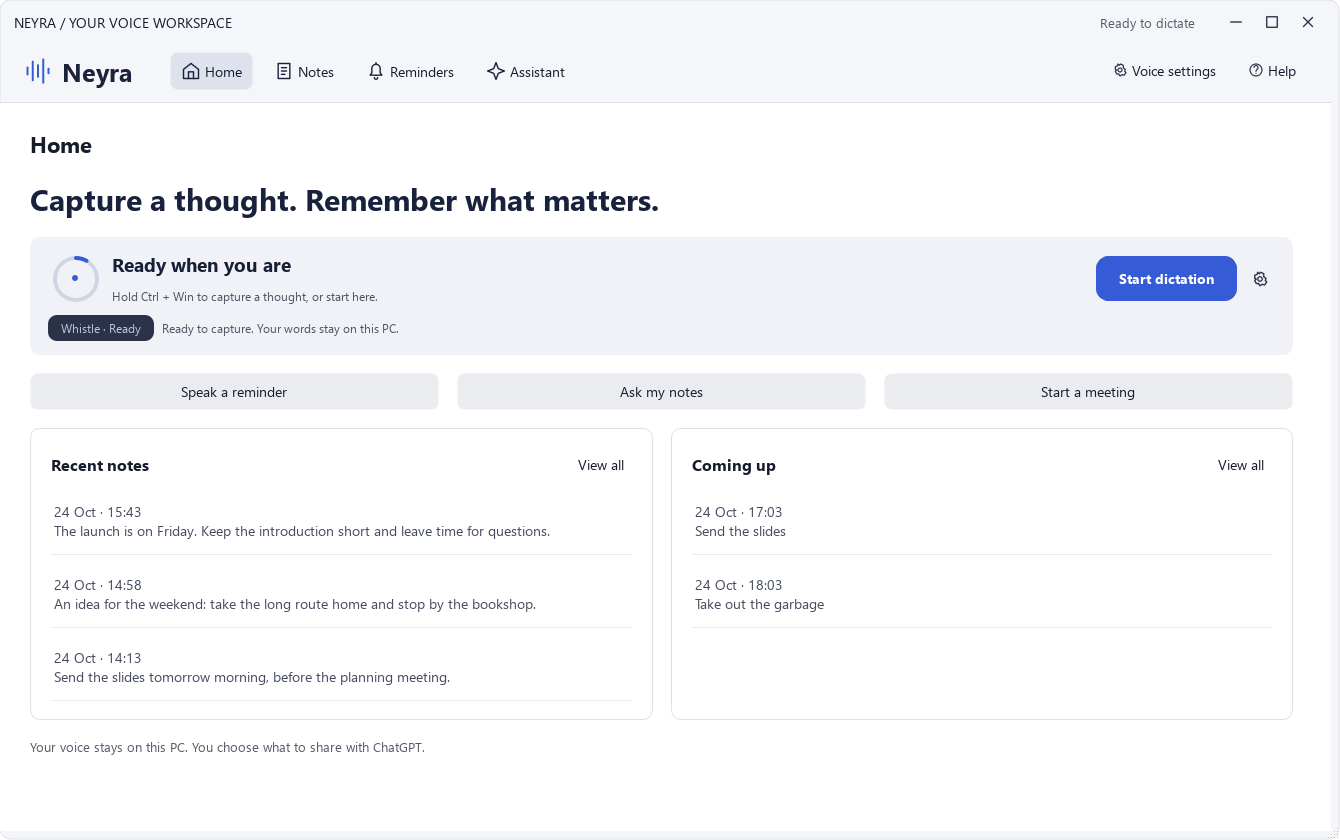
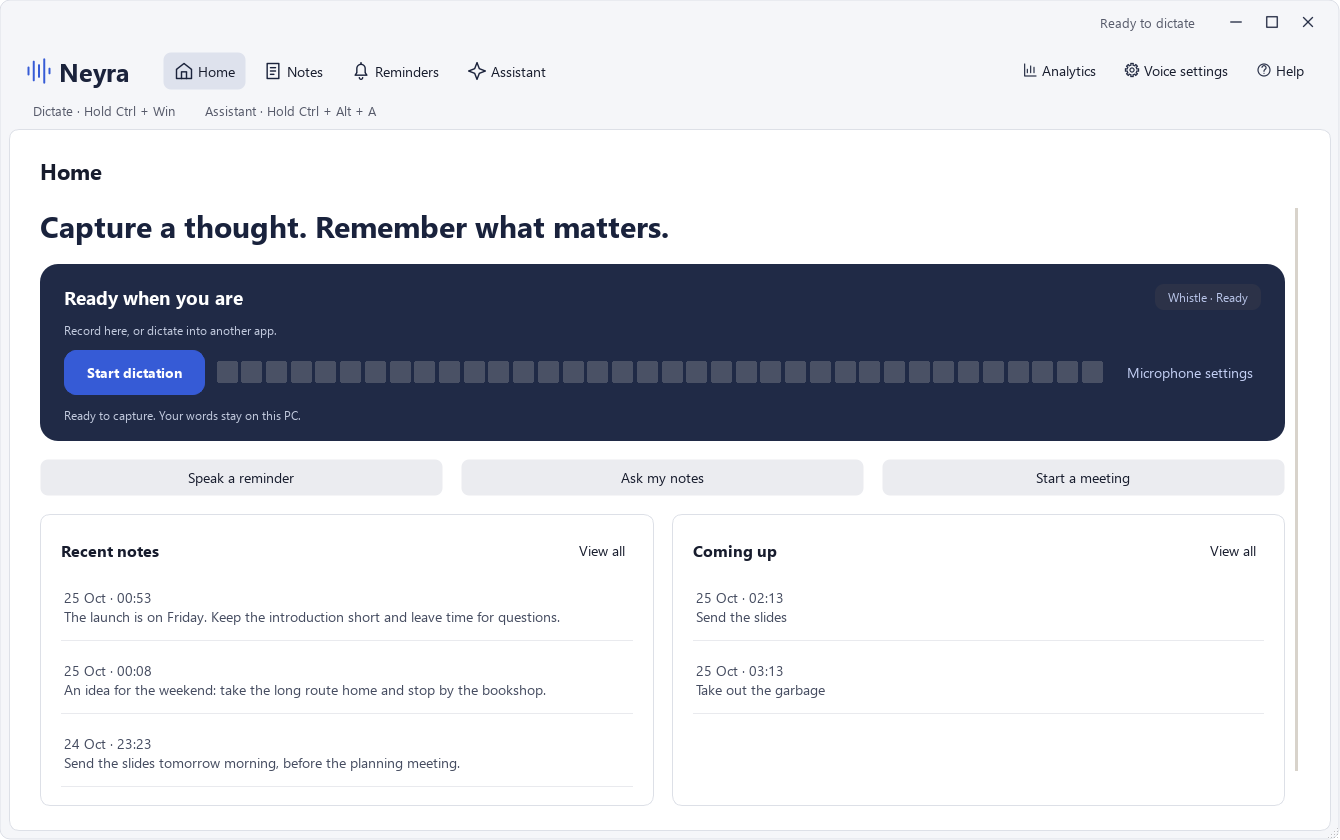
Update website previews to match the current app

diff --git a/website/index.html b/website/index.html
@@ -13,8 +13,8 @@
   <link rel="canonical" href="https://creatorkostas.github.io/neyra/">
   <link rel="icon" href="assets/neyra.svg" type="image/svg+xml">
   <link rel="preload" href="assets/manrope.ttf" as="font" type="font/ttf" crossorigin>
-  <link rel="stylesheet" href="styles.css">
-  <script src="site.js" defer></script>
+  <link rel="stylesheet" href="styles.css?v=20261025">
+  <script src="site.js?v=20261025" defer></script>
 </head>
 <body>
   <a class="skip-link" href="#main">Skip to content</a>
@@ -32,9 +32,13 @@
       </div>
       <div class="voice-demo" aria-label="Interactive note illustration">
         <div class="recording-strip">
-          <div class="voice-ring" aria-hidden="true"></div>
-          <div class="recording-heading"><span id="demo-state">Ready for a thought</span><span class="local-label">ON YOUR PC</span></div>
-          <button id="demo-button" type="button">Try the note preview <svg viewBox="0 0 24 24" aria-hidden="true"><path d="m9 5 7 7-7 7"/></svg></button>
+          <div class="recording-heading"><span id="demo-state">Ready when you are</span><span class="local-label">ON YOUR PC</span></div>
+          <p class="recording-detail">Record here, or dictate into another app.</p>
+          <div class="recording-controls">
+            <button id="demo-button" type="button">Try dictation preview</button>
+            <div class="voice-bars" aria-hidden="true"><span></span><span></span><span></span><span></span><span></span><span></span><span></span><span></span><span></span><span></span><span></span><span></span><span></span><span></span><span></span><span></span><span></span><span></span><span></span><span></span><span></span><span></span><span></span><span></span><span></span><span></span><span></span><span></span><span></span><span></span><span></span><span></span><span></span><span></span><span></span><span></span></div>
+          </div>
+          <p class="recording-model">Whistle · Ready <span>Your words stay on this PC.</span></p>
           <span class="sr-only" id="demo-announcement" role="status" aria-live="polite"></span>
         </div>
         <div class="demo-window">
@@ -54,13 +58,13 @@
     <section class="assistant-section" id="assistant" aria-labelledby="assistant-heading">
       <div class="wrap">
         <div class="assistant-intro"><h2 id="assistant-heading">A place for your<br>everyday thoughts.</h2><div><p>The development preview brings commands, context, and follow-through into Neyra. AI features connect with your ChatGPT account.</p><p class="release-note">These additions are in development. Check the release notes for the features included in each download.</p></div></div>
-        <figure class="app-figure"><img src="assets/assistant-preview.png" width="1340" height="840" loading="lazy" alt="Neyra Home development preview with a voice ring, recent notes, upcoming reminders, and quick actions."><figcaption>Development preview with illustrative notes. The app shown here may be ahead of the published release.</figcaption></figure>
+        <figure class="app-figure"><img src="assets/assistant-preview.png?v=20261025" width="1340" height="840" loading="lazy" alt="Neyra Home development preview with animated input bars, Dictate and Assistant shortcut hints, Analytics, recent notes, and reminders."><figcaption>Development preview with illustrative notes. The app shown here may be ahead of the published release.</figcaption></figure>
         <div class="feature-list">
-          <article><h3>Ask your computer</h3><p>Open a saved app, adjust the volume, control music, or set a timer. Speak a command with its own shortcut.</p><span>Runs locally</span></article>
-          <article><h3>Understand selected text</h3><p>Capture a selection, review what you're sharing, then ask for an explanation, summary, or translation.</p><span>Optional ChatGPT</span></article>
-          <article><h3>Find what you said</h3><p>Search saved dictations and meetings. Review matching passages before asking ChatGPT about them.</p><span>Optional ChatGPT</span></article>
+          <article><h3>Ask your computer</h3><p>Open a saved app, adjust the volume, control music, or set a timer. Use the assistant shortcut to speak naturally and hear the result.</p><span>Runs locally</span></article>
+          <article><h3>Understand selected text</h3><p>Ask the assistant to explain, summarize, or translate selected text. Voice requests run the tool and read the answer automatically.</p><span>Optional ChatGPT</span></article>
+          <article><h3>Find what you said</h3><p>Search saved dictations and meetings. Ask about your saved notes and hear an answer based on matching passages.</p><span>Optional ChatGPT</span></article>
           <article><h3>Follow up on meetings</h3><p>Extract suggested tasks with supporting quotes. Choose a task and a time to turn it into a reminder.</p><span>Review before saving</span></article>
-          <article><h3>Hear your daily briefing</h3><p>Bring today's local agenda and pending reminders together, then read them aloud with a system voice.</p><span>Runs locally</span></article>
+          <article><h3>Hear your daily briefing</h3><p>Bring today's local agenda and pending reminders together, then hear them with local Piper speech.</p><span>Runs locally</span></article>
         </div>
       </div>
     </section>

diff --git a/website/styles.css b/website/styles.css
@@ -232,19 +232,25 @@ h2{font-size:clamp(30px,3.1vw,43px);line-height:1.19}
 
 .hero-actions{margin-top:30px}
 
-.voice-demo{padding:0;display:flex;flex-direction:column;gap:14px}
+.hero>*{min-width:0}
 
-.recording-strip{position:static;display:grid;grid-template-columns:70px 1fr;align-items:center;gap:4px 16px;margin:0;padding:20px;border-radius:10px}
+.voice-demo{min-width:0;padding:0;display:flex;flex-direction:column;gap:14px}
 
-.voice-ring{grid-row:1/3;width:64px;height:64px;border:4px solid #3e4867;border-top-color:#9dacda;border-right-color:#9dacda;border-radius:50%;display:grid;place-items:center}
-
-.voice-ring::after{content:'';width:10px;height:10px;border-radius:50%;background:#9dacda}
-
-.recording-heading{flex-wrap:wrap;gap:4px 12px;font-size:14px;font-weight:650}
-
-.local-label{margin-left:0;color:#b1b9d0;font-size:11px}
-
-.recording-strip button{border:0;min-height:44px;font-size:13px}
+.recording-strip{position:static;display:flex;flex-direction:column;align-items:stretch;gap:12px;margin:0;padding:22px 24px;background:#202a46;border-radius:18px}
+.recording-heading{display:flex;flex-wrap:wrap;justify-content:space-between;gap:8px;font-size:17px;font-weight:650}
+.local-label{margin-left:0;color:#c4cce0;font-size:10px}
+.recording-detail,.recording-model{margin:0;color:#c4cce0;font-size:12px;line-height:1.6}
+.recording-model span{margin-left:10px}
+.recording-controls{display:flex;align-items:center;gap:14px;min-width:0}
+.recording-controls button{width:auto;flex-shrink:0;border:0;border-radius:10px;padding:12px 16px;min-height:44px;background:var(--accent);color:white;font-size:12px;text-align:center}
+.recording-controls button:hover{background:#2949ba}
+.voice-bars{height:28px;display:flex;align-items:center;gap:3px;flex:1;min-width:0;overflow:hidden}
+.voice-bars span{height:20px;min-width:3px;flex:1;border-radius:2px;background:#4a5165;transform-origin:center}
+.voice-demo.is-playing .voice-bars span{background:#93a4d7;animation:voice-level 540ms ease-in-out alternate infinite}
+.voice-bars span:nth-child(3n){--level:.25;animation-delay:-180ms!important}
+.voice-bars span:nth-child(3n+1){--level:.6;animation-delay:-360ms!important}
+.voice-bars span:nth-child(3n+2){--level:.4}
+@keyframes voice-level{from{transform:scaleY(.2)}to{transform:scaleY(var(--level,.9))}}
 
 .demo-window{min-height:240px;padding:22px 24px;border-radius:10px}
 
@@ -255,11 +261,6 @@ h2{font-size:clamp(30px,3.1vw,43px);line-height:1.19}
 .demo-caption{margin-top:14px}
 
 .shortcut-caption{margin:0;padding-left:4px}
-
-.voice-demo.is-playing .voice-ring::after{animation:ring-pulse 680ms cubic-bezier(.77,0,.175,1) alternate infinite}
-
-@keyframes ring-pulse{to{transform:scale(1.65);opacity:.7}
-}
 
 .how-section{gap:100px;padding-block:68px 80px}
 
@@ -301,13 +302,15 @@ h1{font-size:clamp(40px,10vw,60px);max-width:14ch}
 .demo-text{font-size:22px}
 }
 
-@media(max-width:380px){.recording-strip{grid-template-columns:56px 1fr;padding:16px;gap:4px 12px}
-.voice-ring{width:52px;height:52px}
+@media(max-width:380px){.recording-strip{padding:18px 16px}
+.recording-controls{gap:10px}
+.recording-controls button{padding:10px 12px;font-size:11px}
+.recording-model span{display:block;margin-left:0}
 .recording-heading{font-size:13px}
 .recording-strip button{font-size:12px}
 .feature-list h3{padding-right:0;margin-top:20px}
 .feature-list article>span{left:0;right:auto;top:12px;max-width:none}
 }
 
-@media(prefers-reduced-motion:reduce){.voice-demo.is-playing .voice-ring::after{animation:none}
+@media(prefers-reduced-motion:reduce){.voice-demo.is-playing .voice-bars span{animation:none}
 }
